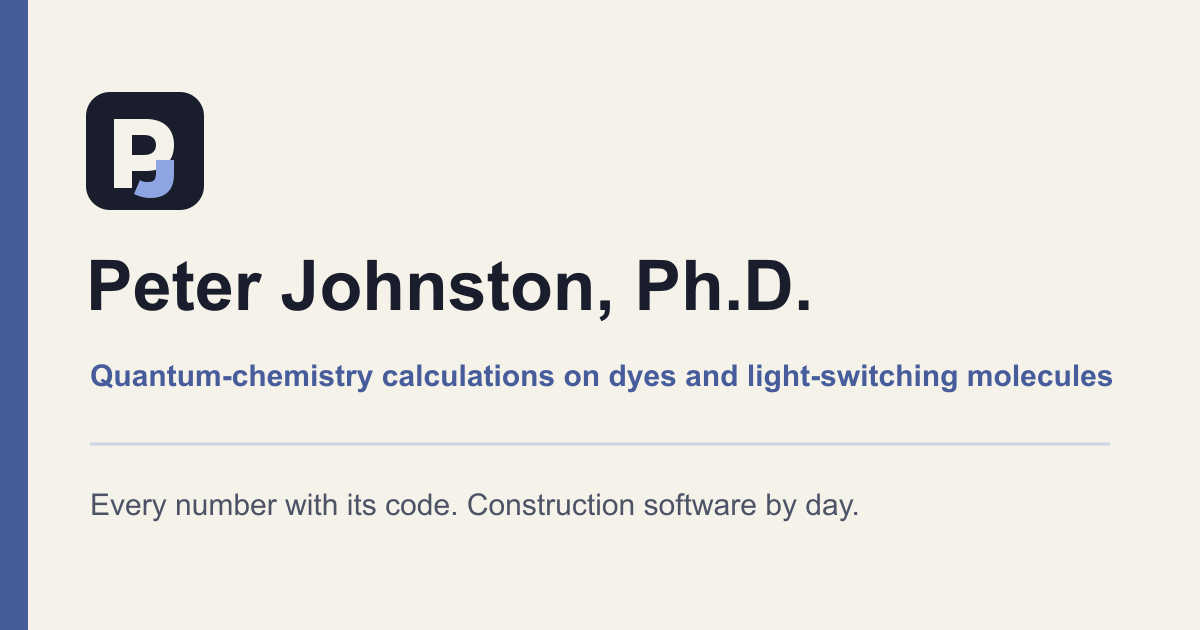
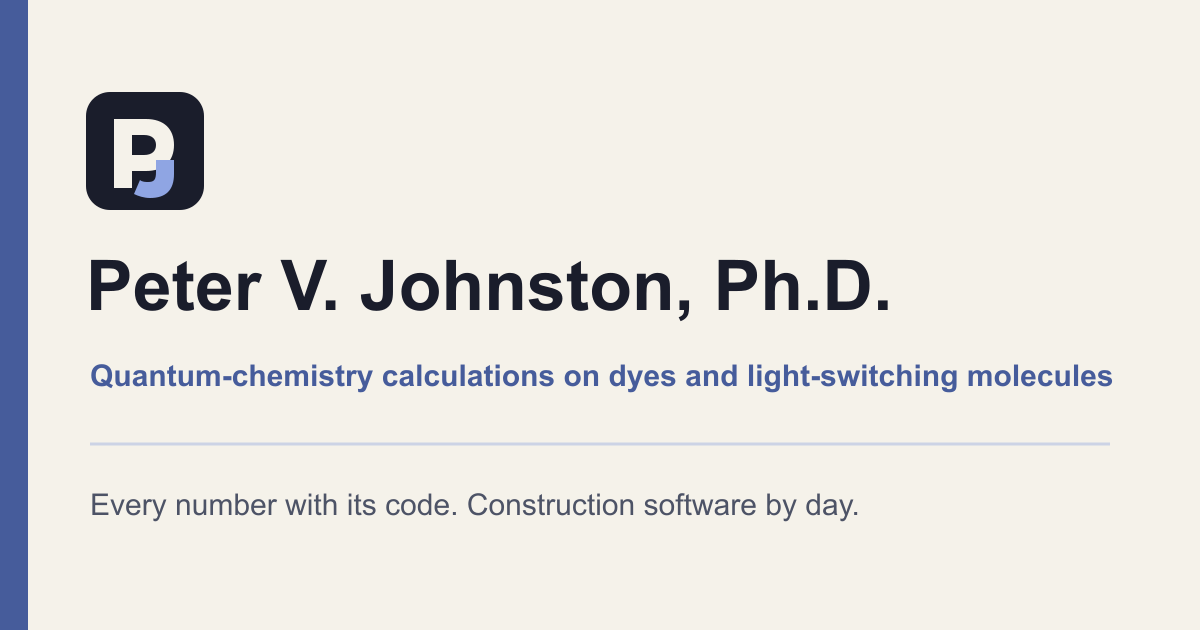
Restore bio and share site positioning

Changed region(s): [[0.2158, 0.3921, 0.74, 0.5127]]

diff --git a/templates/default.html b/templates/default.html
@@ -4,7 +4,7 @@
     <meta charset="utf-8">
     <meta http-equiv="x-ua-compatible" content="ie=edge">
     <meta name="viewport" content="width=device-width, initial-scale=1, viewport-fit=cover">
-    <meta name="description" content="$if(description)$$description$$else$$sitedesc$$endif$">
+    <meta name="description" content="$metadescription$">
     <title>$title$ — Peter V. Johnston</title>
 
     <meta name="theme-color" content="#F5F2EA" media="(prefers-color-scheme: light)">
@@ -13,7 +13,7 @@
     <meta property="og:type" content="$if(ogtype)$$ogtype$$else$website$endif$">
     <meta property="og:site_name" content="pvjohnston.com">
     <meta property="og:title" content="$title$">
-    <meta property="og:description" content="$if(description)$$description$$else$$sitedesc$$endif$">
+    <meta property="og:description" content="$metadescription$">
     <meta property="og:url" content="$siteHost$$url$">
     <meta property="og:image" content="$ogimage$">
     <meta property="og:image:type" content="image/png">
@@ -24,7 +24,7 @@
     <meta name="twitter:creator" content="@pvjohnston">
     <meta name="twitter:card" content="summary_large_image">
     <meta name="twitter:title" content="$title$">
-    <meta name="twitter:description" content="$if(description)$$description$$else$$sitedesc$$endif$">
+    <meta name="twitter:description" content="$metadescription$">
     <meta name="twitter:image" content="$ogimage$">
     <meta name="twitter:image:alt" content="$ogimagealt$">
 
@@ -152,7 +152,7 @@
                     <span class="np-footer__mark">pj</span>
                     <span class="np-footer__word">Peter V. Johnston</span>
                 </div>
-                <p class="np-footer__blurb">Peter Johnston, Ph.D. I run quantum-chemistry calculations on dyes and light-switching molecules and publish every number with the code behind it. By day I build the software that runs a Seattle construction company.</p>
+                <p class="np-footer__blurb">$positioning$</p>
                 <p class="np-footer__blurb">Follow: <a href="https://x.com/pvjohnston">X</a> · <a href="/rss.xml">RSS</a> · <a href="mailto:pvjohnst@gmail.com">Email</a></p>
             </div>
             <div class="np-footer__cols">

diff --git a/index.html b/index.html
@@ -1,6 +1,5 @@
 ---
-title: Peter Johnston, Ph.D. — Quantum chemistry with code
-description: Peter Johnston, Ph.D. I run quantum-chemistry calculations on dyes and light-switching molecules and publish every number with the code behind it. By day I build the software that runs a Seattle construction company.
+title: Peter V. Johnston, Ph.D. — Quantum chemistry with code
 ---
 <section class="masthead masthead-home">
     <div class="masthead-inner">
@@ -10,8 +9,8 @@ description: Peter Johnston, Ph.D. I run quantum-chemistry calculations on dyes 
             <span class="meta-rule" aria-hidden="true"></span>
             <span class="meta-kind">Chemistry · Physics · Mathematics · Engineering · Art</span>
         </div>
-        <h1 class="masthead-title">Peter Johnston</h1>
-        <p class="masthead-lede">Peter Johnston, Ph.D. I run quantum-chemistry calculations on dyes and light-switching molecules and publish every number with the code behind it. By day I build the software that runs a Seattle construction company.</p>
+        <h1 class="masthead-title">Peter V. Johnston</h1>
+        <p class="masthead-lede">$positioning$</p>
     </div>
 </section>
 

diff --git a/templates/post.html b/templates/post.html
@@ -22,8 +22,6 @@
         $body$
     </div>
 
-    <p><a href="https://x.com/pvjohnston">Follow @pvjohnston for the next calculation</a></p>
-
     <div class="post-foot">
         <a class="back-link" style="margin:0;" href="/writing.html">← All writing</a>
         <button type="button" class="print-link" onclick="window.print();">Print / Save as PDF</button>

diff --git a/README.md b/README.md
@@ -1,6 +1,6 @@
 # pvjohnston.com
 
-Peter Johnston, Ph.D. I run quantum-chemistry calculations on dyes and light-switching molecules and publish every number with the code behind it. By day I build the software that runs a Seattle construction company.
+Peter V. Johnston, Ph.D. — [Quantum-chemistry calculations and construction software](https://pvjohnston.com/about.html).
 
 Start with [One dye, one transition](https://pvjohnston.com/posts/2026-08-13-dcdhf-me2-transitions.html) and [How the acceptor closes the gap](https://pvjohnston.com/posts/2026-08-16-how-the-acceptor-closes-the-gap.html).
 
